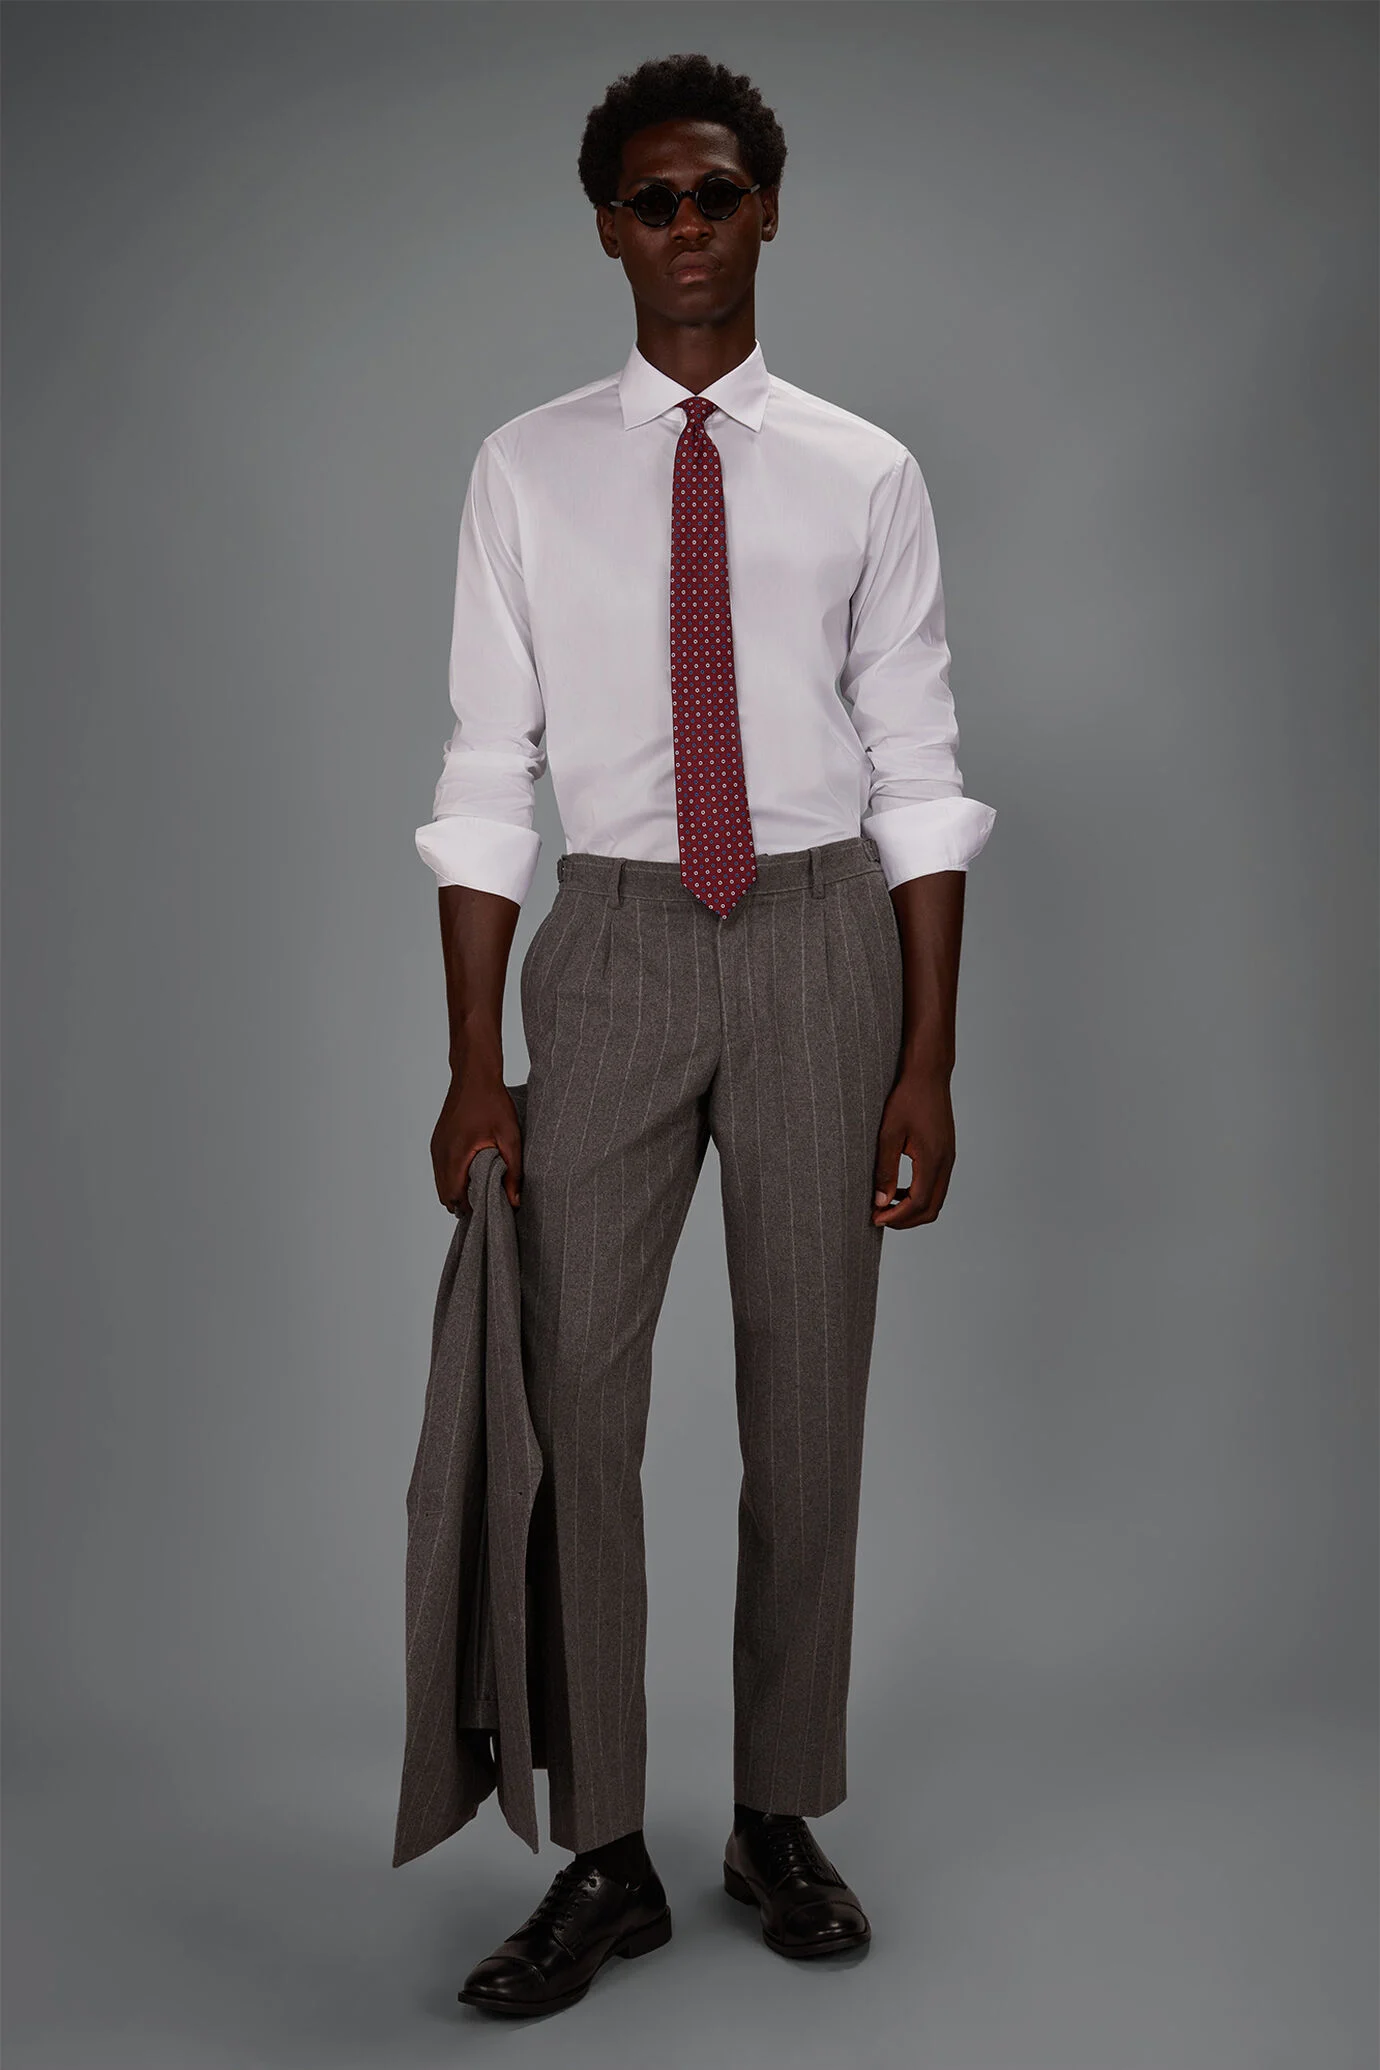
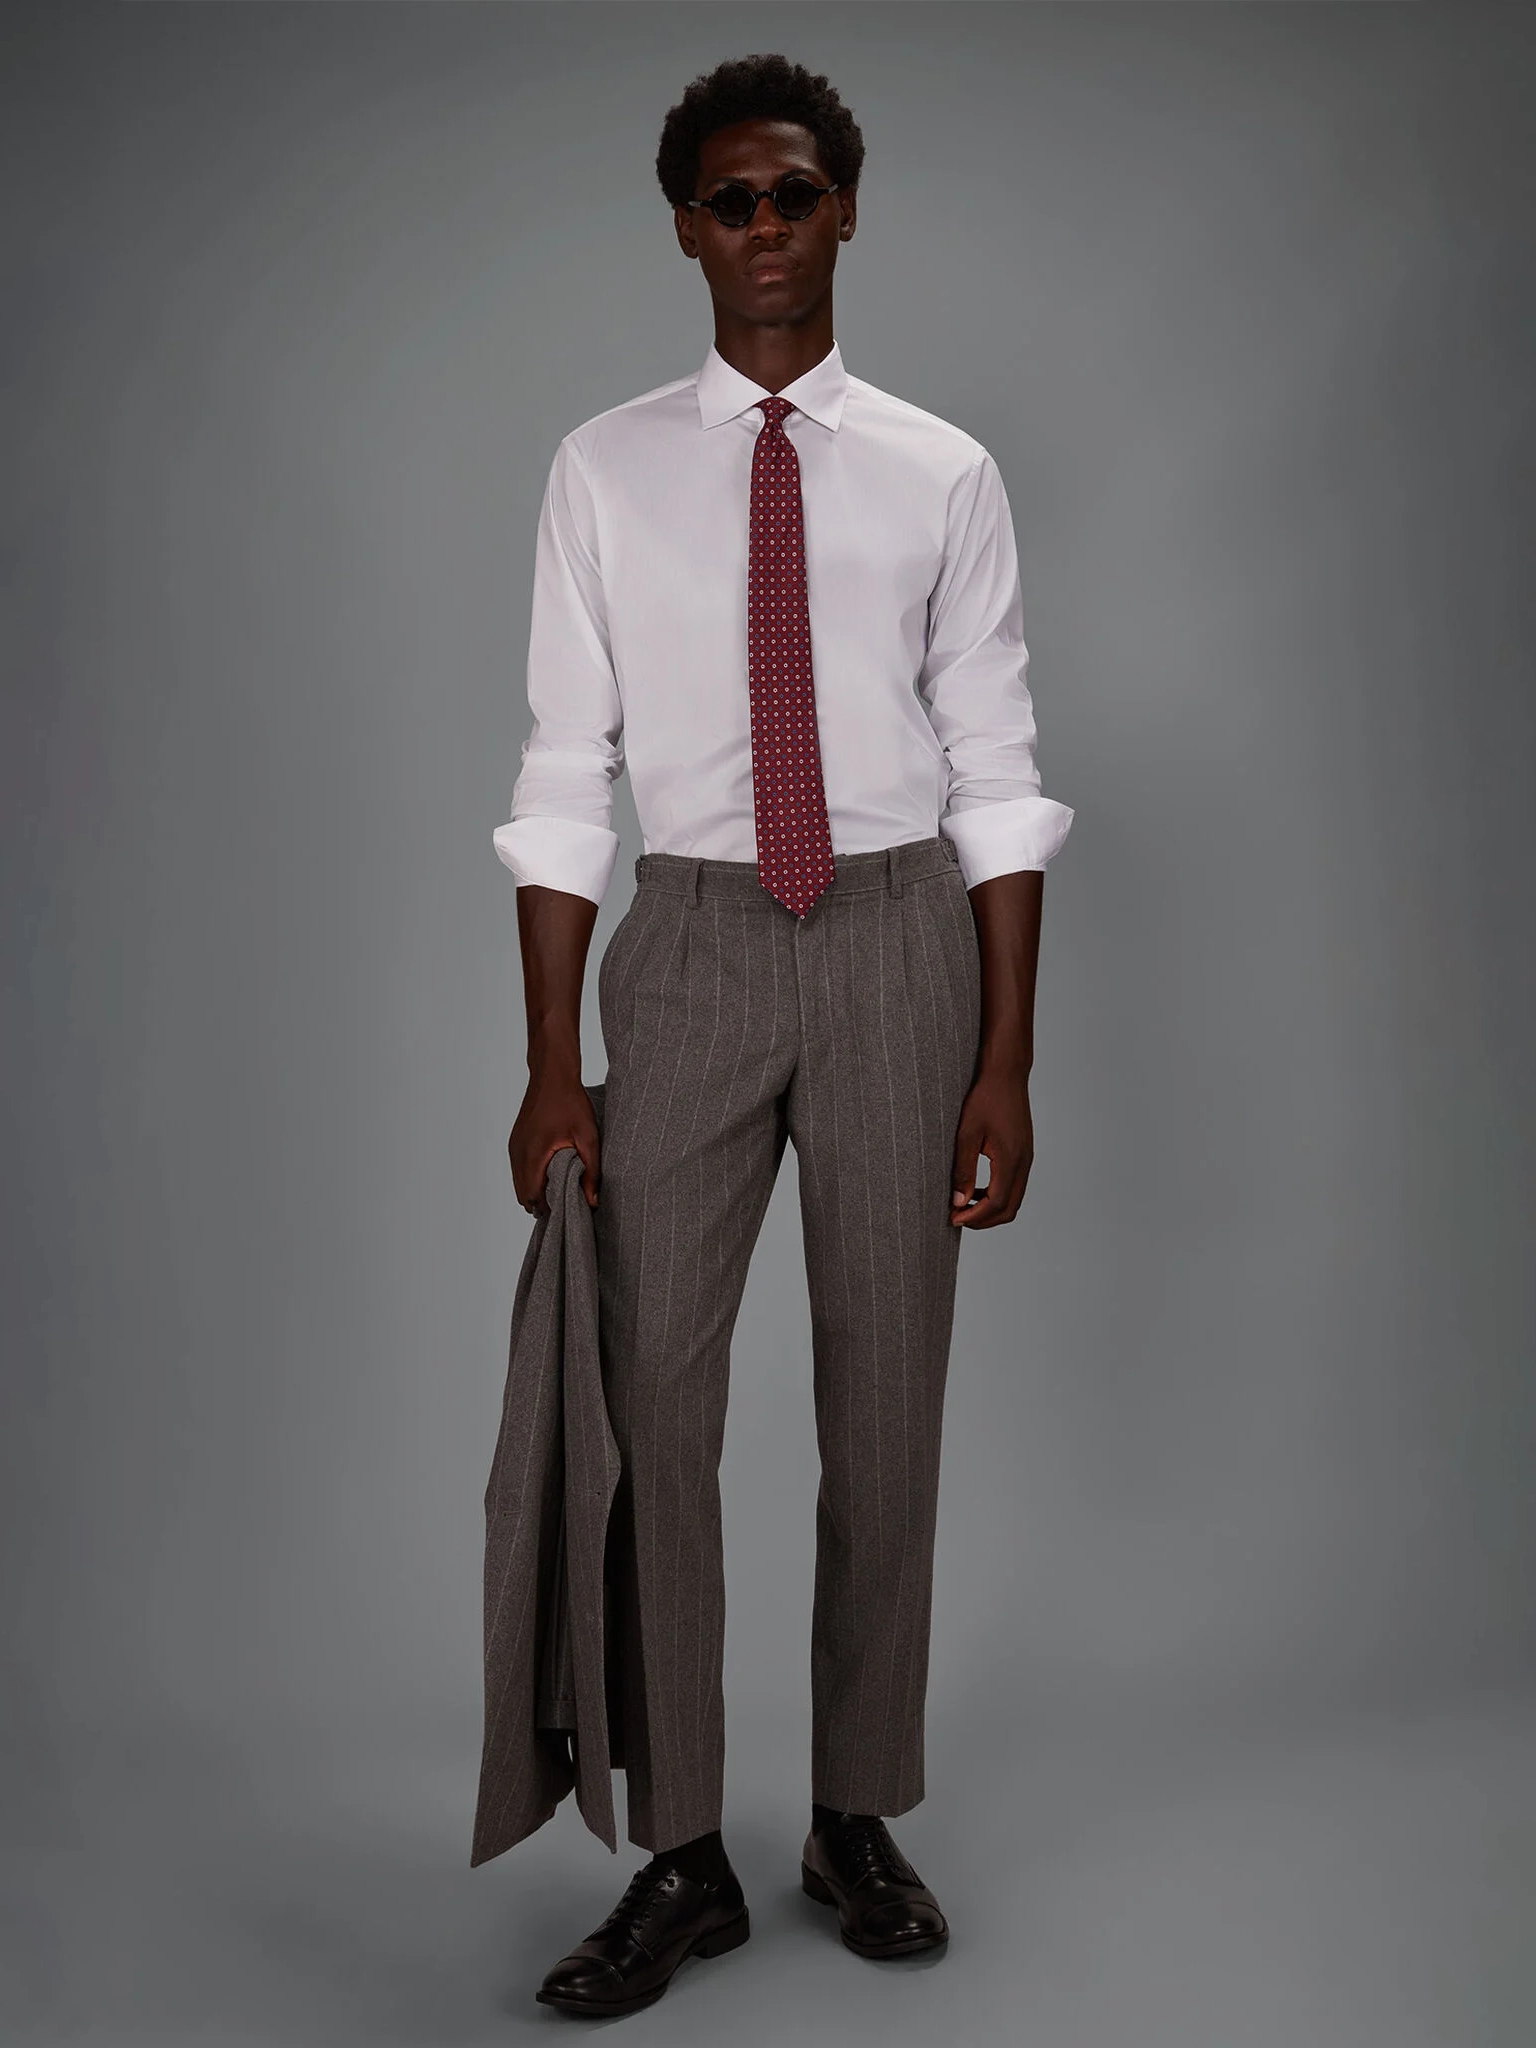
style(card): uniformati i formati delle schede prodotto a 3/4 (token, home, prodotto) + immagini selezione

Changed region(s): [[0.2804, 0.0312, 0.7167, 1.0], [0.5297, 0.6562, 0.5609, 0.7812], [0.4674, 0.75, 0.4986, 0.875]]

diff --git a/css/home.css b/css/home.css
@@ -301,7 +301,7 @@ html.header-hidden { scroll-padding-top: 0; }
 }
 .product .image {
   width: 100%;
-  aspect-ratio: 3 / 4.5;
+  aspect-ratio: var(--ratio-card);
   background-color: var(--paper);
   position: relative;
   overflow: hidden;

diff --git a/css/prodotto.css b/css/prodotto.css
@@ -399,7 +399,7 @@ body.pdp-lightbox-open { overflow: hidden; }
 }
 .pdp-item-image {
   width: 100%;
-  aspect-ratio: 3 / 4.5;
+  aspect-ratio: var(--ratio-card);
   background-color: var(--paper);
   overflow: hidden;
   margin-bottom: 18px;

diff --git a/css/tokens.css b/css/tokens.css
@@ -130,7 +130,7 @@
 
   --touch-target: 44px;
 
-  --ratio-card:       4 / 5;
+  --ratio-card: 3 / 4;
   --ratio-product:    3 / 4;
   --ratio-hero:       16 / 9;
 
